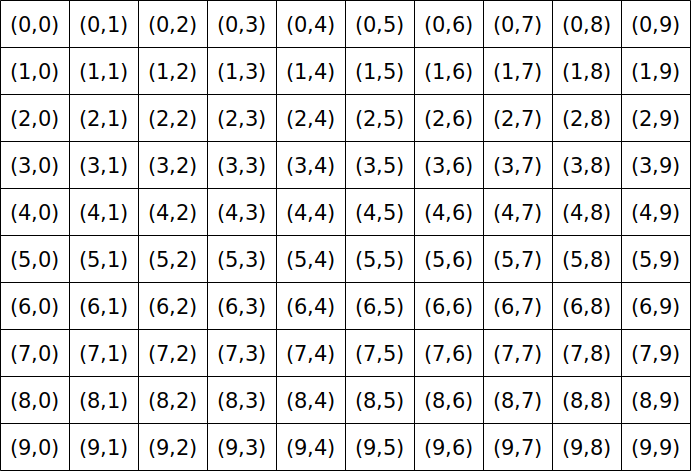
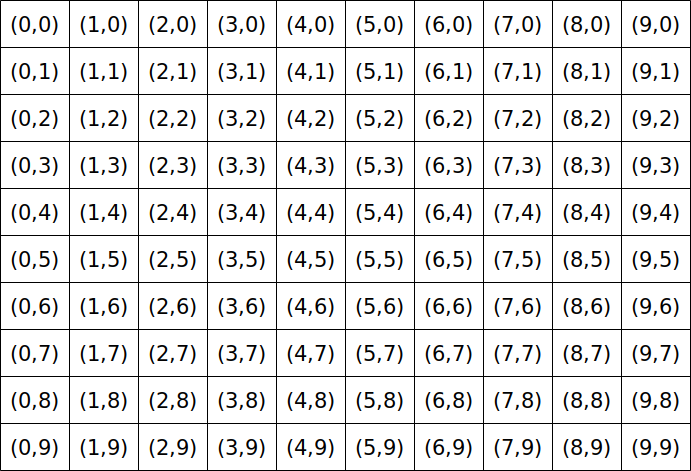
Bij coordinaten is het eerste getal hoeveel naar rechts

diff --git a/LessenProcessing/Point/README.md b/LessenProcessing/Point/README.md
@@ -30,12 +30,16 @@ twee getallen.
 De pixel linksbovenin heeft als coordinaat `(0,0)`.
 `(0,0)` spreek je uit als `nul komma nul`.
 
+Hier zie de coordinaten van veel pixels:
+
+![Pixel coordinaten](PointPixelCoordinaten.png)
+
 ## Een puntje tekenen
 
 Hier zie je code om een puntje te tekenen:
 
 
-```
+```c++
 void setup()
 {
   size(200,160);
